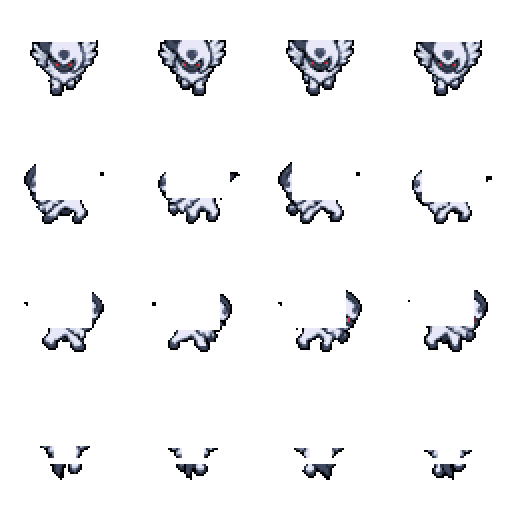
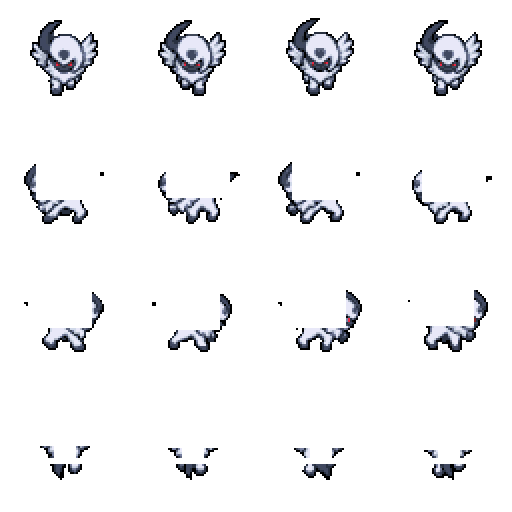
Keep the front-facing Absol head above the rider

diff --git a/tools/build_absol_mounts.py b/tools/build_absol_mounts.py
@@ -51,14 +51,15 @@ def foreground_pixels(art, mount_id, row, col):
         draw.polygon([(63,19),(39,19),(38,29),(38,37),(63,40)], fill=255)
         draw.rectangle((0,41,63,63),fill=255)
     # The full mount remains underneath, including within this cleared area.
-    # In side views the entire 32px authored pose stays visible, including
-    # trousers, seated hips and shoes. Front/rear views retain head protection.
+    # In the front view, Absol's complete head sits in front of the rider.
+    # Side views preserve the full authored rider; the rear view protects its head.
     # Add one logical pixel in Y to undo the source-to-runtime upward shift.
     dx, dy = OFFSETS[mount_id][row][col]
     rider_left, rider_top = 16 + dx//2, 17 + dy//2
-    protected_height = 32 if row in (1,2) else 24
-    draw.rectangle((rider_left, rider_top, rider_left+31,
-                    rider_top+protected_height-1), fill=0)
+    if row != 0:
+        protected_height = 32 if row in (1,2) else 24
+        draw.rectangle((rider_left, rider_top, rider_left+31,
+                        rider_top+protected_height-1), fill=0)
     foreground = Image.new('RGBA',(64,64))
     for y in range(64):
         for x in range(64):
